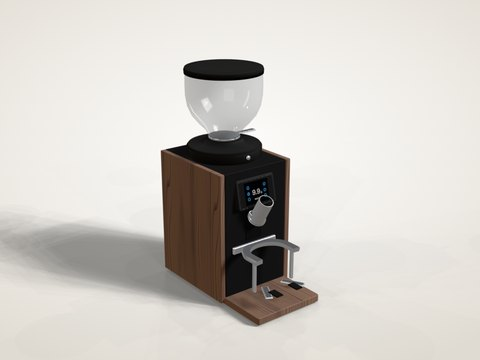
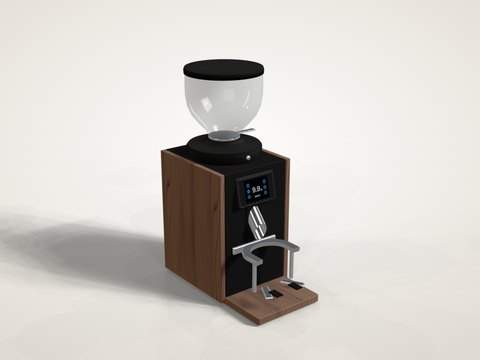
Bentwood H75: Auslauf nach den Werksfotos neu, Display etwas höher
Der Auslauf zeigte nach oben und saß auf einem Chromblock, den es im
Original nicht gibt. Jetzt wie auf den Werksfotos: leicht erhabenes
Auslaufgehäuse direkt unter dem Display (40 × 67 mm, oben gerade, unten
rund) mit hochovaler Öffnung, daraus ein verchromtes Rohr Ø 29 mm, 50°
nach vorn unten, Mündung schräg abgeschnitten und nach vorn-unten offen;
Display-Mitte auf 227 mm wie im Foto.

Außerdem: Farb- und Holzänderungen werden sofort in die Konfiguration
übernommen (nur das Anwenden der Holztexturen wartet), damit ein direkt
danach geteilter Link immer den neuesten Stand enthält.

Claude-Session: https://claude.ai/code/session_01XVE81muw7HYcqaEMYwBuXM

Changed region(s): [[0.5, 0.4583, 0.5938, 0.6722]]

diff --git a/js/devices/bentwood.js b/js/devices/bentwood.js
@@ -134,9 +134,6 @@ function buildBentwood(mm) {
       [-60, 80],
       [60, 80],
     ]) B.plain(new THREE.CylinderGeometry(9, 10, H0, 20), F.rubber).position.set(x, H0 / 2, z);
-    // Aussparung für den Auslauf
-    const rec = B.plain(rbox(40, 72, 4, 8, 3), F.darkGap);
-    rec.position.set(FX, 160, HD - 1.4);
   }
   // Seitenteile: Holz oder in Gehäusefarbe
   B.stage('sides');
@@ -162,7 +159,7 @@ function buildBentwood(mm) {
   B.stage('display');
   {
     const g = new THREE.Group();
-    g.position.set(FX, 222, HD + 6);
+    g.position.set(FX, 227, HD + 6);
     g.rotation.x = -0.21;
     root.add(g);
     const frame = filletShape([[-45, -29], [45, -29], [45, 29], [-45, 29]], 5, 4);
@@ -179,14 +176,59 @@ function buildBentwood(mm) {
   // =========================================================================
   B.stage('spout');
   {
-    const g = new THREE.Group();
-    g.position.set(FX, 178, HD + 2);
-    g.rotation.x = 0.55;
-    root.add(g);
-    const tube = latheY([[13, -48], [14.5, -48], [14.5, 0], [17, 0], [17, 6], [0.01, 6]], 40);
-    tube.rotateX(Math.PI);
-    B.add(tube, mat('metal.spout'), S('metal.spout'), g).position.set(0, 0, 12);
-    B.add(rbox(30, 18, 14, 4, 2), mat('metal.spout'), S('metal.spout'), g).position.set(0, 0, 4);
+    // Auslaufgehäuse direkt unter dem Display: leicht erhaben, oben gerade, unten rund,
+    // mit hochovaler Öffnung (Werksfotos: ca. 40 × 67 mm, Öffnung ca. 32 × 52 mm)
+    const HT = 199;
+    const HBOT = 132;
+    const hw = 20;
+    const hs = new THREE.Shape();
+    hs.moveTo(FX - hw, HT - 3);
+    hs.lineTo(FX - hw, HBOT + hw);
+    hs.absarc(FX, HBOT + hw, hw, Math.PI, Math.PI * 2, false);
+    hs.lineTo(FX + hw, HT - 3);
+    hs.quadraticCurveTo(FX + hw, HT, FX + hw - 3, HT);
+    hs.lineTo(FX - hw + 3, HT);
+    hs.quadraticCurveTo(FX - hw, HT, FX - hw, HT - 3);
+    const hole = new THREE.Path();
+    hole.absellipse(FX, 166, 16, 26, 0, Math.PI * 2, true);
+    hs.holes.push(hole);
+    B.add(boxProjectUV(plateZ(hs, HD - 1, 5, 0.9, 48)), bodyMat, S('body.main'));
+    // dunkler Schacht hinter der Öffnung
+    const shaft = B.plain(new THREE.CylinderGeometry(16, 16, 10, 40, 1, true), F.darkGap);
+    shaft.scale.set(1, 1, 26 / 16);
+    shaft.rotation.x = Math.PI / 2;
+    shaft.position.set(FX, 166, HD - 1);
+    shaft.material = new THREE.MeshStandardMaterial({ color: 0x050505, roughness: 0.9, side: THREE.DoubleSide });
+    const back = B.plain(new THREE.CircleGeometry(1, 40), F.darkGap);
+    back.scale.set(16, 26, 1);
+    back.position.set(FX, 166, HD - 5.5);
+    // Rohr Ø 29 mm, 50° nach vorn unten (füllt die 52 mm hohe Öffnung), Mündung schräg nach vorn-unten offen
+    const ang = (50 * Math.PI) / 180;
+    const d = new THREE.Vector3(0, -Math.sin(ang), Math.cos(ang));
+    const P0 = new THREE.Vector3(FX, 166, HD + 4); // Achse durch die Mitte der Öffnung
+    const M = P0.clone().addScaledVector(d, 27); // Mitte der Mündung
+    const L = 60;
+    const A = M.clone().addScaledVector(d, -L);
+    const prof = [];
+    for (let k = 0; k <= 30; k++) prof.push([14.5, (L * 1.4 * k) / 30]);
+    for (let k = 30; k >= 0; k--) prof.push([13.6, (L * 1.4 * k) / 30]);
+    const g = latheY(prof, 56);
+    // Achse +Y -> d, dann an der Mündungsebene schräg abschneiden
+    g.applyQuaternion(new THREE.Quaternion().setFromUnitVectors(new THREE.Vector3(0, 1, 0), d));
+    g.translate(A.x, A.y, A.z);
+    const n = new THREE.Vector3(0, -Math.sin(0.21), Math.cos(0.21)); // Mündungsebene: nach vorn, 12° nach unten
+    const pos = g.attributes.position;
+    const v = new THREE.Vector3();
+    for (let i = 0; i < pos.count; i++) {
+      v.fromBufferAttribute(pos, i);
+      const over = v.clone().sub(M).dot(n);
+      if (over > 0) {
+        v.addScaledVector(d, -over / d.dot(n));
+        pos.setXYZ(i, v.x, v.y, v.z);
+      }
+    }
+    g.computeVertexNormals();
+    B.add(g, mat('metal.spout'), S('metal.spout'));
   }
 
   // =========================================================================

diff --git a/js/main.js b/js/main.js
@@ -657,16 +657,19 @@ function prepareWoods(cfg, done) {
 }
 
 function updateSlots(keys, patch) {
+  // Konfiguration sofort übernehmen (z. B. für einen direkt danach geteilten Link);
+  // nur das Anwenden der Materialien wartet bei Holz kurz auf die Texturen
+  for (const k of keys) {
+    const cur = config.slots[k];
+    let next;
+    if (patch.id === 'custom') next = { id: 'custom', finish: cur.finish, color: patch.color, kind: patch.kind };
+    else if (patch.id) next = { id: patch.id, finish: cur.finish };
+    else next = { ...cur, ...patch };
+    config.slots[k] = next;
+  }
+  syncVariants();
   const apply = () => {
-    for (const k of keys) {
-      const cur = config.slots[k];
-      let next;
-      if (patch.id === 'custom') next = { id: 'custom', finish: cur.finish, color: patch.color, kind: patch.kind };
-      else if (patch.id) next = { id: patch.id, finish: cur.finish };
-      else next = { ...cur, ...patch };
-      config.slots[k] = next;
-      mm.applySlot(k, next, config);
-    }
+    for (const k of keys) mm.applySlot(k, config.slots[k], config);
     reapplyFollowers(keys);
     syncParts();
     viewer.requestRender();
